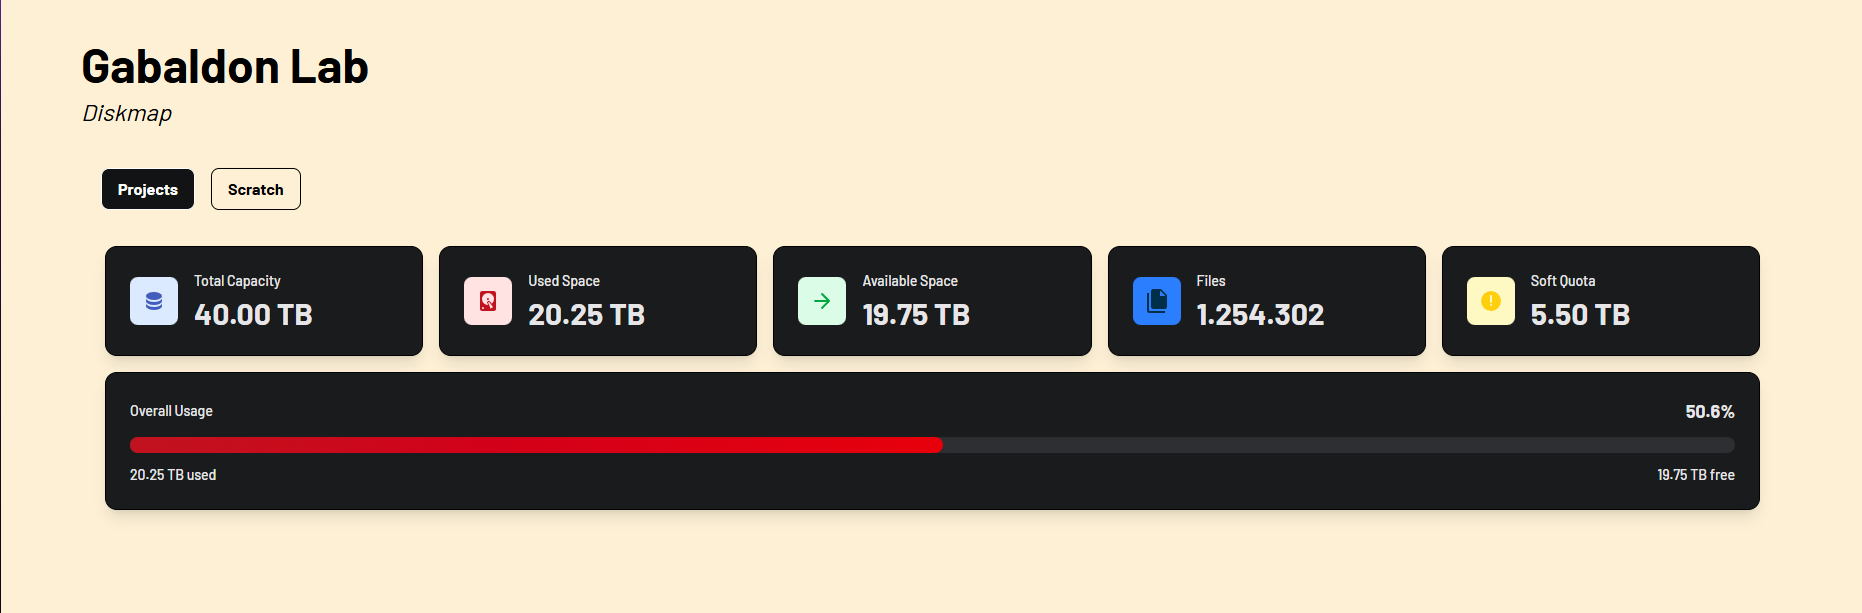
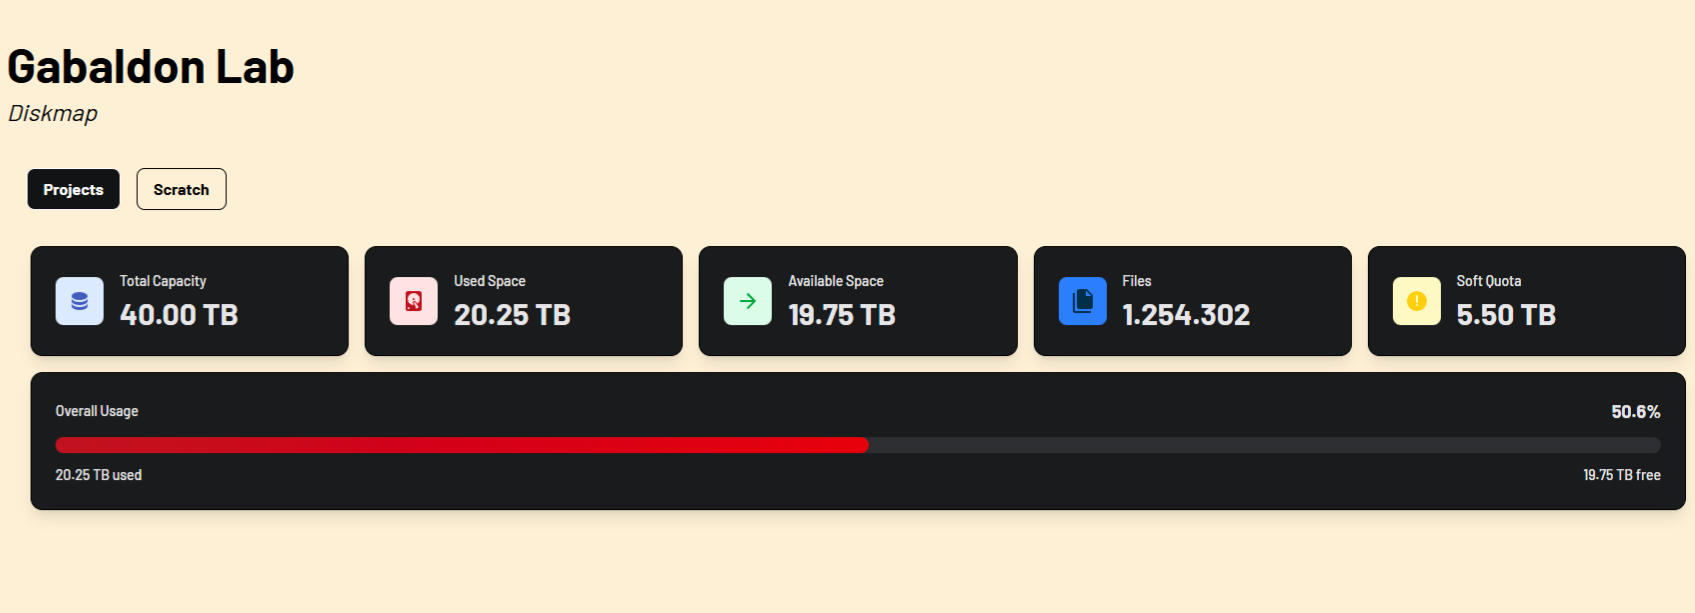
upgrade experience and add project section

diff --git a/index.html b/index.html
@@ -3,7 +3,7 @@
 <head>
     <meta charset="UTF-8">
     <meta name="viewport" content="width=device-width, initial-scale=1.0">
-    <title>Emerson Rojas | Full Stack Developer</title>
+    <title>Emerson Rojas</title>
     <meta name="description" content="Portfolio profesional de Emerson Rojas, Desarrollador Full Stack especializado en Bioinformática.">
     <script src="https://cdn.jsdelivr.net/npm/@tailwindcss/browser@4"></script>
     <link rel="preconnect" href="https://fonts.googleapis.com">
@@ -22,7 +22,7 @@
         </nav>
     </header>
     <main class="min-h-screen flex flex-col">
-        <section class="flex ">
+        <section class="flex">
             <div class="max-w-7xl w-1/2 p-40">
                 <div>
                     <h1 class="text-huge uppercase text-white">Emerson<br/><i class="italic">Rojas</i></h1>
@@ -39,8 +39,7 @@
                     <p class="text-3xl leading-relaxed font-light text-white/90">
                         I'm a curious person who enjoys learning, improving, and taking on new challenges. 
                         I have experience working as a <span class="font-extrabold text-white">Full Stack Developer</span> 
-                        and <span class="font-extrabold text-section-2">IT Technician</span>, which gives me 
-                        a 360° view of both software development and technical infrastructure.
+                        and <span class="font-extrabold text-section-2">IT Technician</span>.
                     </p>
                     <p class="text-section-2/80 mt-5 text-xl leading-relaxed">
                         I've worked with technologies such as 
@@ -51,67 +50,175 @@
                 </div>
             </div>
         </section>
-        <section id="experience" class="bg-black px-50 py-20">
-            <div class="py-10">
-                <div class="flex items-start justify-between gap-8">
-                    <div class="flex-1">
-                        <h3 class="text-huge-exp uppercase text-white tracking-tight leading-[0.9] mb-5">
-                            Web<br/><i class="italic text-primary">Developer</i>
-                        </h3>
-                        <div class="flex items-center gap-6 mb-5">
-                            <span class="text-[11px] uppercase tracking-[0.2em] text-white/35 font-semibold">Barcelona Supercomputing Center</span>
-                            <span class="text-[11px] uppercase tracking-[0.15em] text-[#FFD60A]/50 font-semibold">2025 — 2026</span>
+        <section id="experience" class="bg-white px-50 py-20">
+            <h1 class="text-6xl font-black uppercase tracking-tighter text-black mb-10 pl-10 italic">Experience</h1> 
+                <div class="m-10 border-solid border-2 max-w flex relative">
+                    <div class="w-1/2 p-8 border-r-2 border-solid relative">
+                        <div class="flex justify-between items-center mb-6">
+                            <div class="border-2 border-solid border-black p-2 font-bold text-sm bg-amber-50">2025 - 2026</div>
+                            <div class="absolute top-0 right-0 p-8 text-6xl text-gray-200 font-extrabold -z-10">01</div>
                         </div>
-                        <p class="text-sm leading-relaxed text-white/45 max-w-lg mb-6">
-                            Worked on the migration and improvement of <strong class="text-white/70">PhylomeDB6</strong>,
-                            contributing to both frontend and backend development. Focused on data visualization with
-                            <strong class="text-white/70">D3.js</strong>, transforming SQL database information into
-                            interactive graphs and improving UI usability.
-                            <br/><br/>
-                            Also developed <strong class="text-white/70">DiskMap</strong>, an internal tool for monitoring
-                            disk usage in <strong class="text-white/70">MareNostrum</strong>,
-                            displayed storage analysis, directory structures, and usage dashboards on the frontend.
-                        </p>
-                        <div class="flex flex-wrap gap-2">
-                            <span class="tech-pill">Svelte</span>
-                            <span class="tech-pill">React.js</span>
-                            <span class="tech-pill">TypeScript</span>
-                            <span class="tech-pill">FastAPI</span>
+                        <div class="mb-6">
+                            <h1 class="text-3xl font-extrabold mb-1">Web Developer</h1>
+                            <h2 class="text-sm font-bold text-gray-600 tracking-wide">BARCELONA SUPERCOMPUTING CENTER</h2>
+                        </div>
+                        <div class="text-gray-700 text-base leading-relaxed mb-10">
+                            <p class="mb-4">Worked on the migration and improvement of PhylomeDB6, contributing to both frontend and backend development. Focused on data visualization with D3.js, transforming SQL database information into interactive graphs and improving UI usability.</p>
+                            <p>Also developed DiskMap, an internal tool for monitoring disk usage in MareNostrum, displayed storage analysis, directory structures, and usage dashboards on the frontend.</p>
+                        </div>
+                        <div class="flex flex-wrap gap-2 text-xs font-bold text-black tracking-wider uppercase mt-auto">
+                            <span class="border-2 border-solid border-black p-2">SVELTE</span>
+                            <span class="border-2 border-solid border-black p-2">REACT.JS</span>
+                            <span class="border-2 border-solid border-black p-2">TYPESCRIPT</span>
+                            <span class="border-2 border-solid border-black p-2">FASTAPI</span>
+                            <span class="border-2 border-solid border-black p-2">NEXT.JS</span>
+                            <span class="border-2 border-solid border-black p-2">DOCKER</span>
+                            <span class="border-2 border-solid border-black p-2">PYTHON</span>
+                            <span class="border-2 border-solid border-black p-2">D3.JS</span>
                         </div>
                     </div>
-                    <span class="exp-number flex-shrink-0">01</span>
+
+                    <div class="w-1/2 p-8 relative">
+                        <div class="flex justify-between items-center mb-6">
+                            <div class="border-2 border-solid border-black p-2 font-bold text-sm bg-amber-50">2022 - 2023</div>
+                            <div class="absolute top-0 right-0 p-8 text-6xl text-gray-200 font-extrabold -z-10">02</div>
+                        </div>
+                        <div class="mb-6">
+                            <h1 class="text-3xl font-extrabold mb-1">IT Technician</h1>
+                            <h2 class="text-sm font-bold text-gray-600 tracking-wide uppercase">EL POLVORI</h2>
+                        </div>
+                        <div class="text-gray-700 text-base leading-relaxed mb-10">
+                            <p class="mb-4">Provided full technical support across the school's IT infrastructure, ensuring the correct operation of computers, classrooms, networks, and internal systems used daily by teachers and students.</p>
+                            <p>My responsibilities included hardware maintenance, equipment repair, software installation, network troubleshooting, user support, and resolving technical incidents quickly to minimize downtime.</p>
+                        </div>
+                        <div class="flex flex-wrap gap-2 text-xs font-bold text-black tracking-wider uppercase mt-auto">
+                            <span class="border-2 border-solid border-black p-2">HARDWARE</span>
+                            <span class="border-2 border-solid border-black p-2">IT SUPPORT</span>
+                            <span class="border-2 border-solid border-black p-2">NETWORKING</span>
+                        </div>
+                    </div>
                 </div>
+
+        </section>
+        <section id="projects" class="">
+            <h1 class="text-6xl font-black uppercase tracking-tighter mb-12 pl-10 italic mt-20">projects</h1> 
+            <!-- phylomedb6 -->
+            <div class="flex">
+                <div class="w-1/2 pr-6 flex flex-col justify-center ml-30">
+                    <div class="mb-6">
+                        <h2 class="proj-1 text-4xl font-extrabold text-white mb-1">PhylomeDB6</h2>
+                    </div>
+                    <div class="text-sm md:text-xl leading-relaxed space-y-4">
+                        <p>
+                            Actively collaborated on the migration of <strong>PhylomeDB</strong> from version 5 to 6, 
+                            working in a <em>Full Stack</em> environment to integrate pending features and resolve 
+                            bugs in the legacy code. I supported the user interface update using 
+                            <strong>Tailwind CSS</strong>, modernizing outdated components, and participated in the 
+                            development of interactive charts using <strong>D3.js</strong>.
+                        </p>
+                        <p>
+                            Throughout the process, I assisted in optimizing the <strong>MariaDB</strong> database, 
+                            ensuring the application of security best practices in the code and updating critical 
+                            dependencies. Additionally, I worked collaboratively on the application deployment, 
+                            gaining hands-on experience and assisting in the environment setup with <strong>Docker Compose</strong>.
+                        </p>
+                    </div>
+                </div>
+                <div class="w-1/2">
+                    <div id="controls-carousel" class="relative w-full group" data-carousel="static">
+                        <div class="relative h-56 overflow-hidden rounded-base md:h-96 border-2 border-black">
+                            <div class="duration-700 ease-in-out" data-carousel-item>
+                                <img src="/img/phylomedb/phy-1.png" class="absolute block w-full -translate-x-1/2 -translate-y-1/2 top-1/2 left-1/2" alt="...">
+                            </div>
+                            <div class="hidden duration-700 ease-in-out" data-carousel-item>
+                                <img src="/img/phylomedb/phylo-2.png" class="absolute block w-full -translate-x-1/2 -translate-y-1/2 top-1/2 left-1/2" alt="...">
+                            </div>
+                            <div class="hidden duration-700 ease-in-out" data-carousel-item>
+                                <img src="/img/phylomedb/phylo-3.png" class="absolute block w-full -translate-x-1/2 -translate-y-1/2 top-1/2 left-1/2" alt="...">
+                            </div>
+                            <div class="hidden duration-700 ease-in-out" data-carousel-item>
+                                <img src="/img/phylomedb/phylo-5.png" class="absolute block w-full -translate-x-1/2 -translate-y-1/2 top-1/2 left-1/2" alt="...">
+                            </div>
+                        </div>
+                        
+                        <button type="button" class="absolute top-0 start-0 z-30 flex items-center justify-center h-full px-4 cursor-pointer focus:outline-none opacity-0 group-hover:opacity-100 transition-opacity duration-300" data-carousel-prev>
+                            <span class="inline-flex items-center justify-center w-10 h-10 border-2 border-black bg-white text-black hover:bg-black hover:text-white transition-colors duration-200">
+                                <svg class="w-5 h-5 rtl:rotate-180" aria-hidden="true" xmlns="http://www.w3.org/2000/svg" fill="none" viewBox="0 0 24 24" stroke="currentColor">
+                                    <path stroke-linecap="round" stroke-linejoin="round" stroke-width="2.5" d="m15 19-7-7 7-7"/>
+                                </svg>
+                                <span class="sr-only">Previous</span>
+                            </span>
+                        </button>
+                        
+                        <button type="button" class="absolute top-0 end-0 z-30 flex items-center justify-center h-full px-4 cursor-pointer focus:outline-none opacity-0 group-hover:opacity-100 transition-opacity duration-300" data-carousel-next>
+                            <span class="inline-flex items-center justify-center w-10 h-10 border-2 border-black bg-white text-black hover:bg-black hover:text-white transition-colors duration-200">
+                                <svg class="w-5 h-5 rtl:rotate-180" aria-hidden="true" xmlns="http://www.w3.org/2000/svg" fill="none" viewBox="0 0 24 24" stroke="currentColor">
+                                    <path stroke-linecap="round" stroke-linejoin="round" stroke-width="2.5" d="m9 5 7 7-7 7"/>
+                                </svg>
+                                <span class="sr-only">Next</span>
+                            </span>
+                        </button>
+                    </div>
+                </div>                 
             </div>
-            <div class="border-t border-b border-[#FFD60A]/10 py-10">
-                <div class="flex items-start justify-between gap-8">
-                    <div class="flex-1">
-                        <h3 class="text-huge-exp uppercase text-white tracking-tight leading-[0.9] mb-5">
-                            IT<br/><i class="italic text-primary">Technician</i>
-                        </h3>
-                        <div class="flex items-center gap-6 mb-5">
-                            <span class="text-[11px] uppercase tracking-[0.2em] text-white/35 font-semibold">Escola el Polvori</span>
-                            <span class="text-[11px] uppercase tracking-[0.15em] text-[#FFD60A]/50 font-semibold">2022 — 2023</span>
+            <!-- diskmap -->
+            <div class="flex mt-50 bg-black py-20">
+                <div class="w-1/2">
+                    <div id="controls-carousel" class="relative w-full group" data-carousel="static">
+                        <div class="relative h-56 overflow-hidden rounded-base md:h-96">
+                            <div class="duration-700 ease-in-out" data-carousel-item>
+                                <img src="/img/diskmap/disk-1.png" class="absolute block w-full -translate-x-1/2 -translate-y-1/2 top-1/2 left-1/2" alt="...">
+                            </div>
+                            <div class="hidden duration-700 ease-in-out" data-carousel-item>
+                                <img src="/img/diskmap/disk-2.png" class="absolute block w-full -translate-x-1/2 -translate-y-1/2 top-1/2 left-1/2" alt="...">
+                            </div>
+                            <div class="hidden duration-700 ease-in-out" data-carousel-item>
+                                <img src="/img/diskmap/disk-3.png" class="absolute block w-full -translate-x-1/2 -translate-y-1/2 top-1/2 left-1/2" alt="...">
+                            </div>
+                            <div class="hidden duration-700 ease-in-out" data-carousel-item>
+                                <img src="/img/diskmap/disk-4.png" class="absolute block w-auto -translate-x-1/2 -translate-y-1/2 top-1/2 left-1/2" alt="...">
+                            </div>
+                            <div class="hidden duration-700 ease-in-out" data-carousel-item>
+                                <img src="/img/diskmap/disk-5.png" class="absolute block w-full -translate-x-1/2 -translate-y-1/2 top-1/2 left-1/2" alt="...">
+                            </div>
                         </div>
-                        <p class="text-sm leading-relaxed text-white/45 max-w-lg mb-6">
-                            Provided full technical support across the school’s IT infrastructure, ensuring the correct
-                            operation of computers, classrooms, networks, and internal systems used daily by teachers
-                            and students.
-                            <br/><br/>
-                            My responsibilities included hardware maintenance, equipment repair, software installation,
-                            network troubleshooting, user support, and resolving technical incidents quickly to minimize
-                            downtime. I also assisted with infrastructure improvements and general system reliability.
-                        </p>
-                        <div class="flex flex-wrap gap-2">
-                            <span class="tech-pill">Hardware</span>
-                            <span class="tech-pill">IT Support</span>
-                            <span class="tech-pill">Networking</span>
-                        </div>
+                        
+                        <button type="button" class="absolute top-0 start-0 z-30 flex items-center justify-center h-full px-4 cursor-pointer focus:outline-none opacity-0 group-hover:opacity-100 transition-opacity duration-300" data-carousel-prev>
+                            <span class="inline-flex items-center justify-center w-10 h-10 border-2 border-black bg-white text-black hover:bg-black hover:text-white transition-colors duration-200">
+                                <svg class="w-5 h-5 rtl:rotate-180" aria-hidden="true" xmlns="http://www.w3.org/2000/svg" fill="none" viewBox="0 0 24 24" stroke="currentColor">
+                                    <path stroke-linecap="round" stroke-linejoin="round" stroke-width="2.5" d="m15 19-7-7 7-7"/>
+                                </svg>
+                                <span class="sr-only">Previous</span>
+                            </span>
+                        </button>
+                        
+                        <button type="button" class="absolute top-0 end-0 z-30 flex items-center justify-center h-full px-4 cursor-pointer focus:outline-none opacity-0 group-hover:opacity-100 transition-opacity duration-300" data-carousel-next>
+                            <span class="inline-flex items-center justify-center w-10 h-10 border-2 border-black bg-white text-black hover:bg-black hover:text-white transition-colors duration-200">
+                                <svg class="w-5 h-5 rtl:rotate-180" aria-hidden="true" xmlns="http://www.w3.org/2000/svg" fill="none" viewBox="0 0 24 24" stroke="currentColor">
+                                    <path stroke-linecap="round" stroke-linejoin="round" stroke-width="2.5" d="m9 5 7 7-7 7"/>
+                                </svg>
+                                <span class="sr-only">Next</span>
+                            </span>
+                        </button>
                     </div>
-                    <span class="exp-number flex-shrink-0">02</span>
-                </div>
+                </div>  
+                <div class="w-1/2 pr-6 flex flex-col justify-center ml-30">
+                    <div class="mb-6">
+                        <h2 class="text-4xl font-extrabold text-white mb-1 proj-2">DiskMap</h2>
+                    </div>
+                    <div class="text-white text-sm md:text-xl leading-relaxed space-y-4">
+                        <p>
+                            Developed <strong>DiskMap</strong>, an internal web application for my research group at the <strong>BSC (Barcelona Supercomputing Center)</strong>, designed to monitor and visualize disk space usage. The tool provides clear insights into storage capacities, breakdown of files and folders, and specific group quota allocations.
+                        </p>
+                        <p>
+                            Built a high-performance, decoupled architecture using <strong>FastAPI (Python)</strong> for a lightweight backend and <strong>Vue.js</strong> paired with <strong>Tailwind CSS</strong> for a responsive, modern interface. Implemented interactive, data-driven dashboards using <strong>Apache ECharts</strong> and managed data persistence efficiently with <strong>SQLite</strong>.
+                        </p>
+                    </div>
+                </div>               
             </div>
         </section>
     </main>
     <script src="script.js"></script>
+    <script src="https://cdn.jsdelivr.net/npm/flowbite@2.5.2/dist/flowbite.min.js"></script>
 </body>
 </html>

diff --git a/style.css b/style.css
@@ -72,3 +72,14 @@ i{
     background: var(--primary-color);
     padding: 3px 9px;
 }
+.proj-1 {
+    color: var(--accent-color);
+}
+
+#projects{
+    background-color: var(--secondary-color);
+}
+
+.proj-2 {
+    color: var(--secondary-color);
+}
